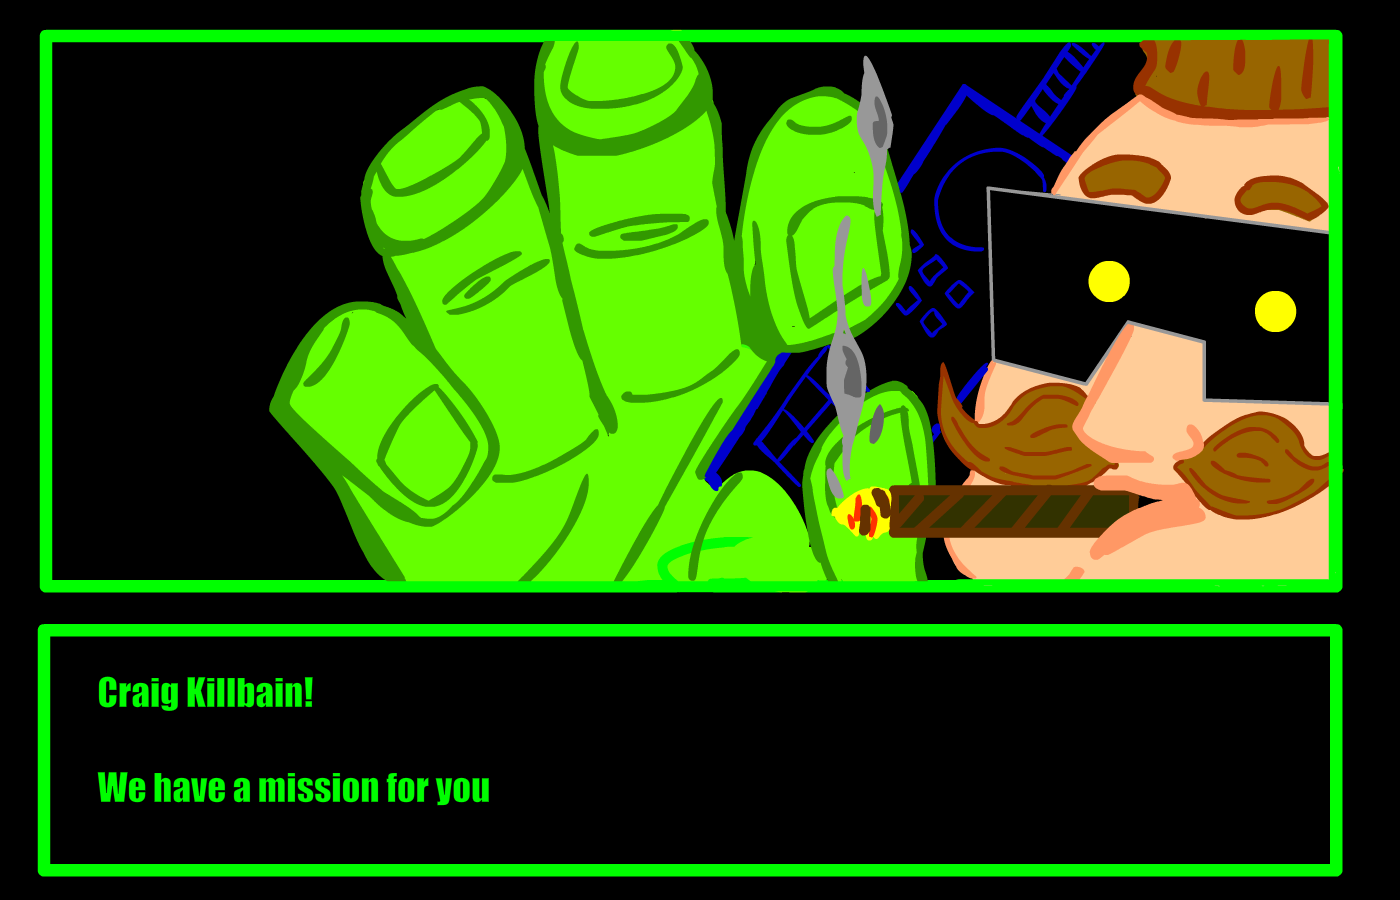
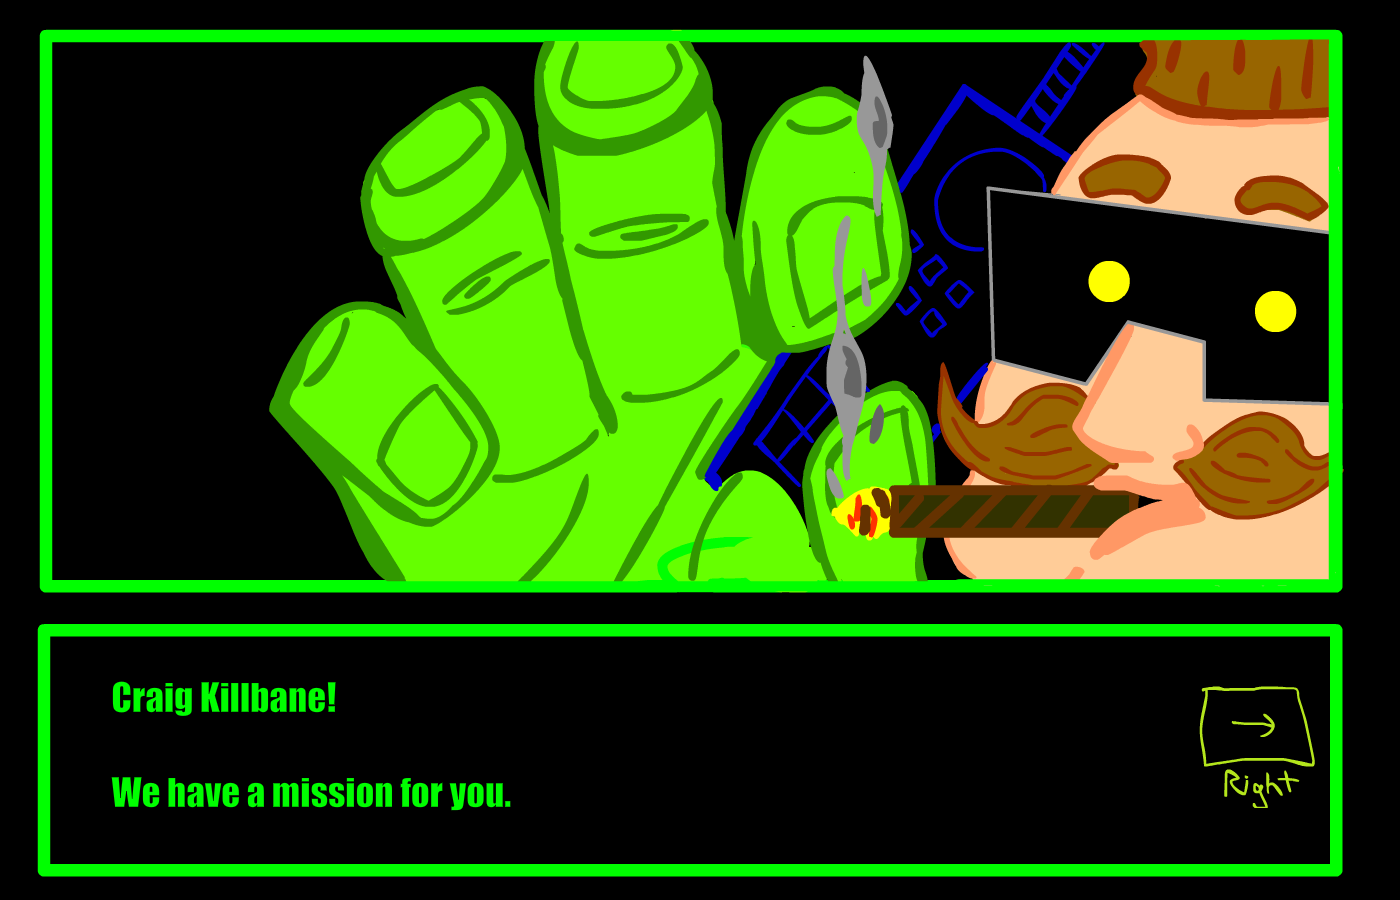
More typo and intro screen fixes

diff --git a/LudumDare34/Assets/INTRO/IntroSpriteFlow.cs b/LudumDare34/Assets/INTRO/IntroSpriteFlow.cs
@@ -27,7 +27,7 @@ public class IntroSpriteFlow : MonoBehaviour
 	
 	void Update ()
 	{
-		if (Input.anyKeyDown) {
+		if (Input.GetKeyDown(KeyCode.RightArrow)) {
 			if(sceneEnding < sprite.Length){
 				sceneEnding++;
 			}
